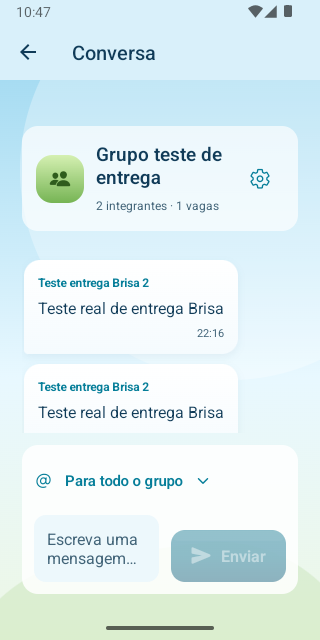
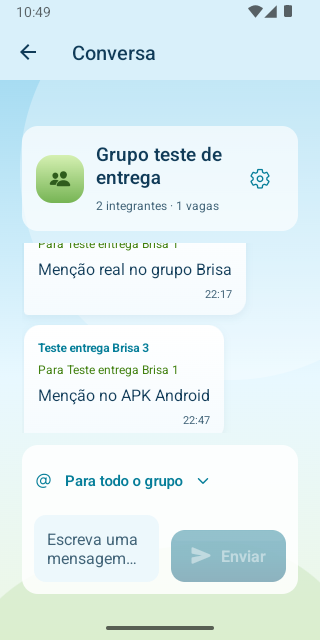
docs: record standalone group notification test

Changed region(s): [[0.0625, 0.375, 0.7812, 0.6562], [0.125, 0.0, 0.1562, 0.0312]]

diff --git a/docs/validation.md b/docs/validation.md
@@ -50,3 +50,5 @@ APK standalone compilado para ARM64 e x86_64, instalado no Android 15. Com Metro
 Regressão de timeout: o prazo de 90 segundos inclui obtenção do ID Token, fetch e leitura da resposta. `node --import tsx scripts/verify-api-deadline.mjs`, após setup das contas temporárias, verifica erro de prazo mesmo com obtenção de token bloqueada.
 
 Edição nativa de grupo confirmada: proprietário alterou o limite de 4 para 3 no APK e voltou ao chat com uma vaga disponível. A API retornou o limite persistido.
+
+No APK standalone, uma nova menção de grupo recebeu FCM em segundo plano. O toque abriu o grupo correto e exibiu `Menção no APK Android`; captura atualizada em `screenshots/android-group-chat.png`.
